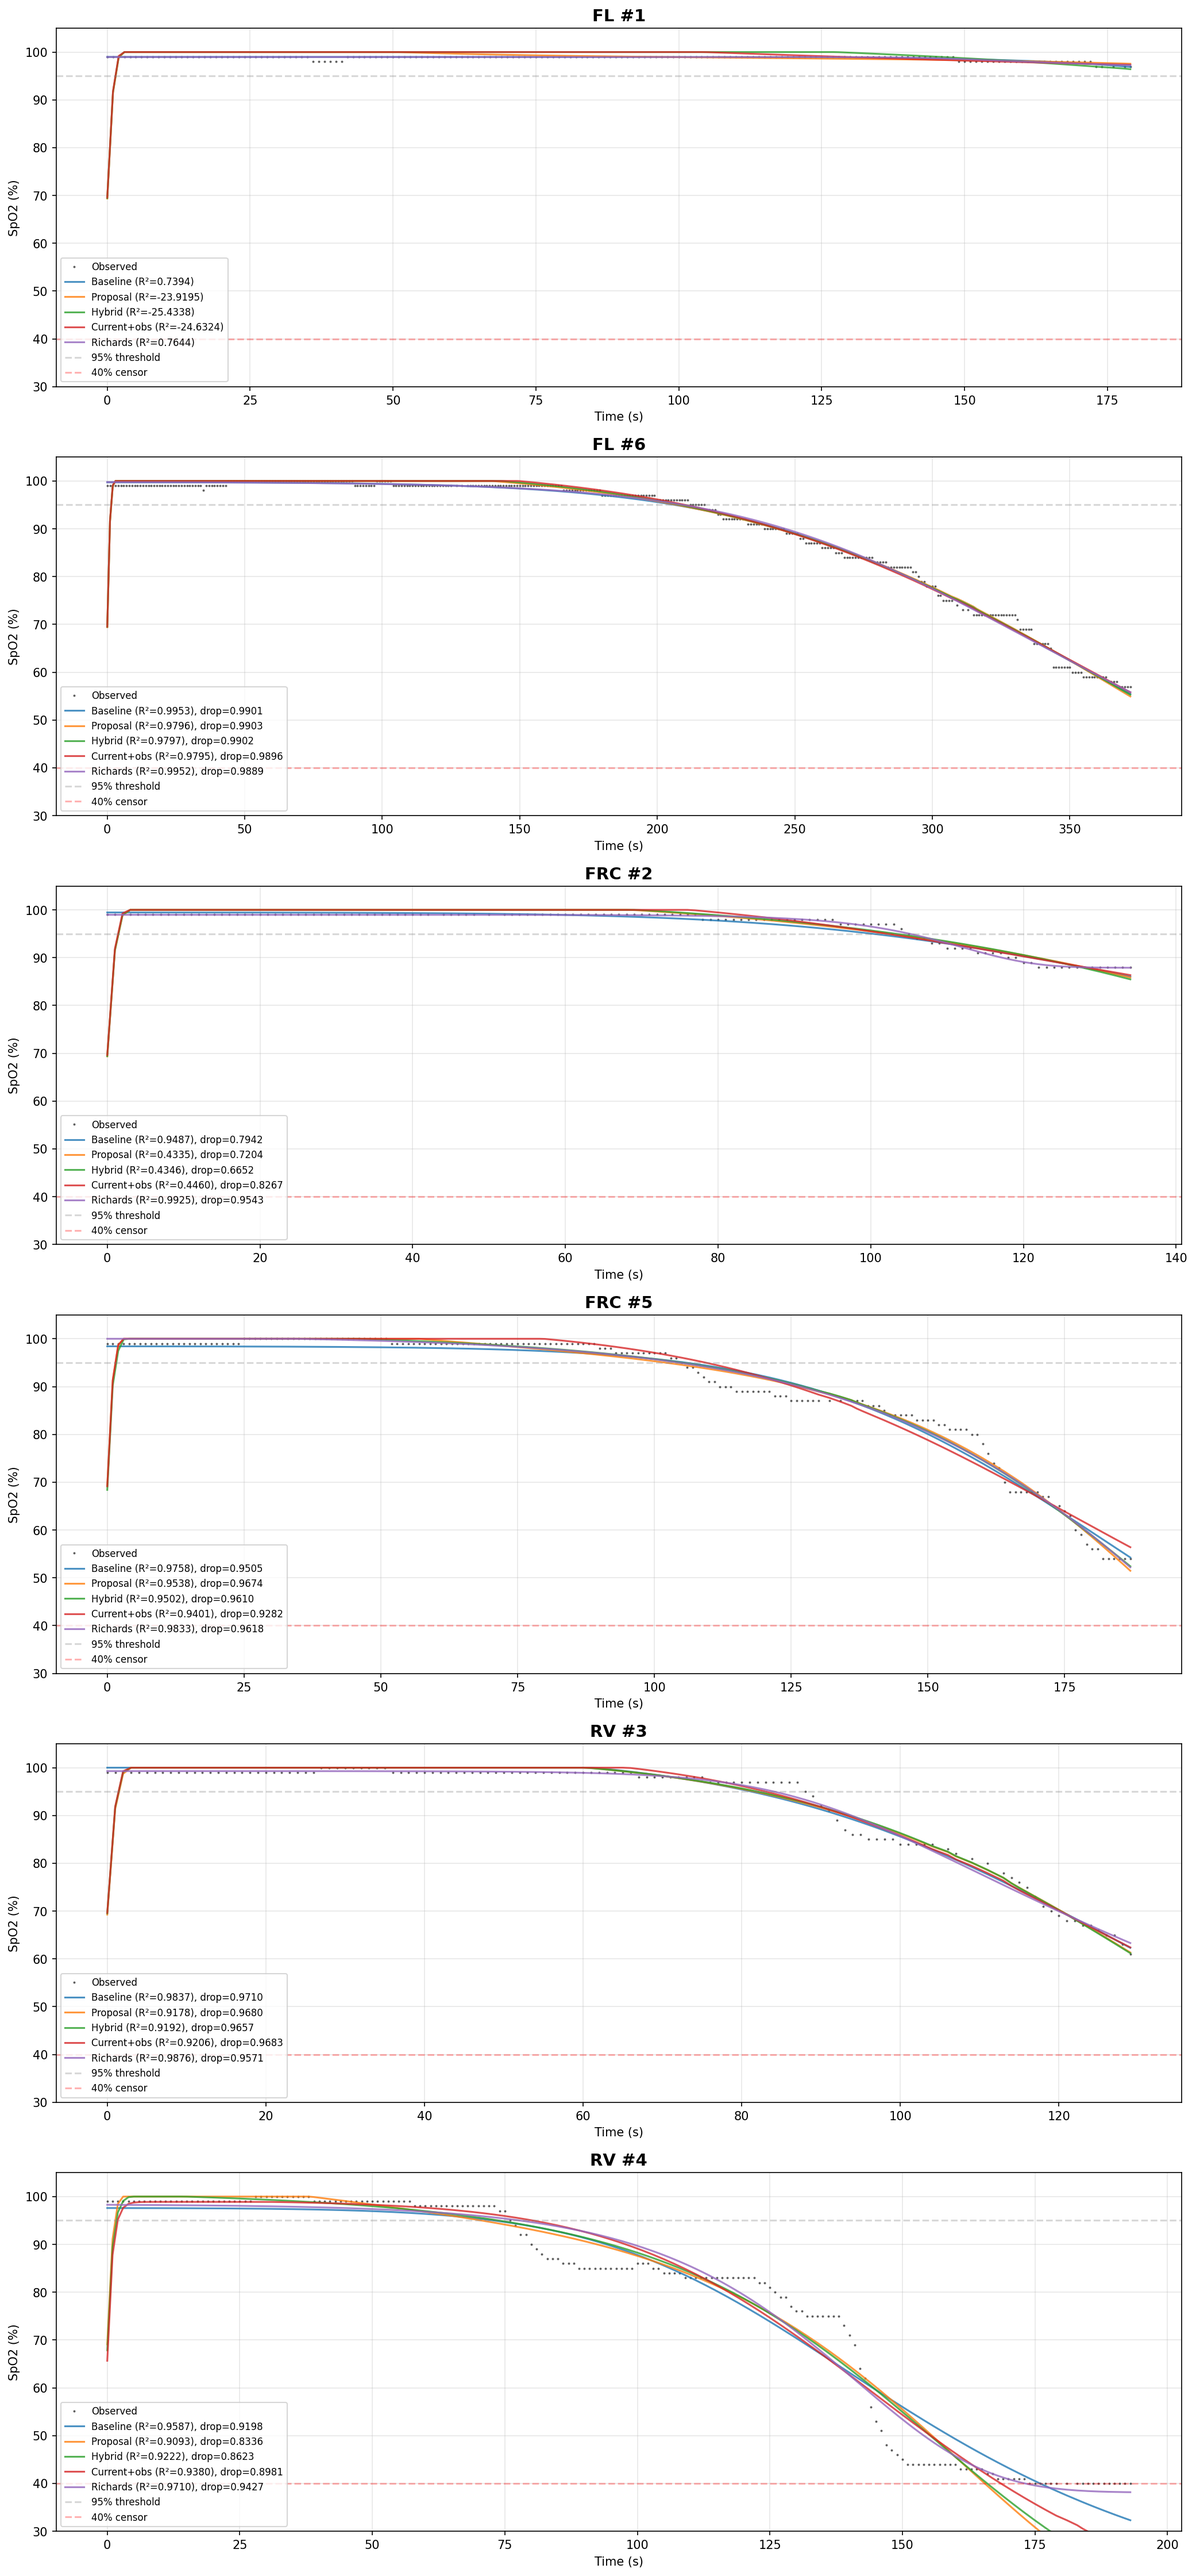
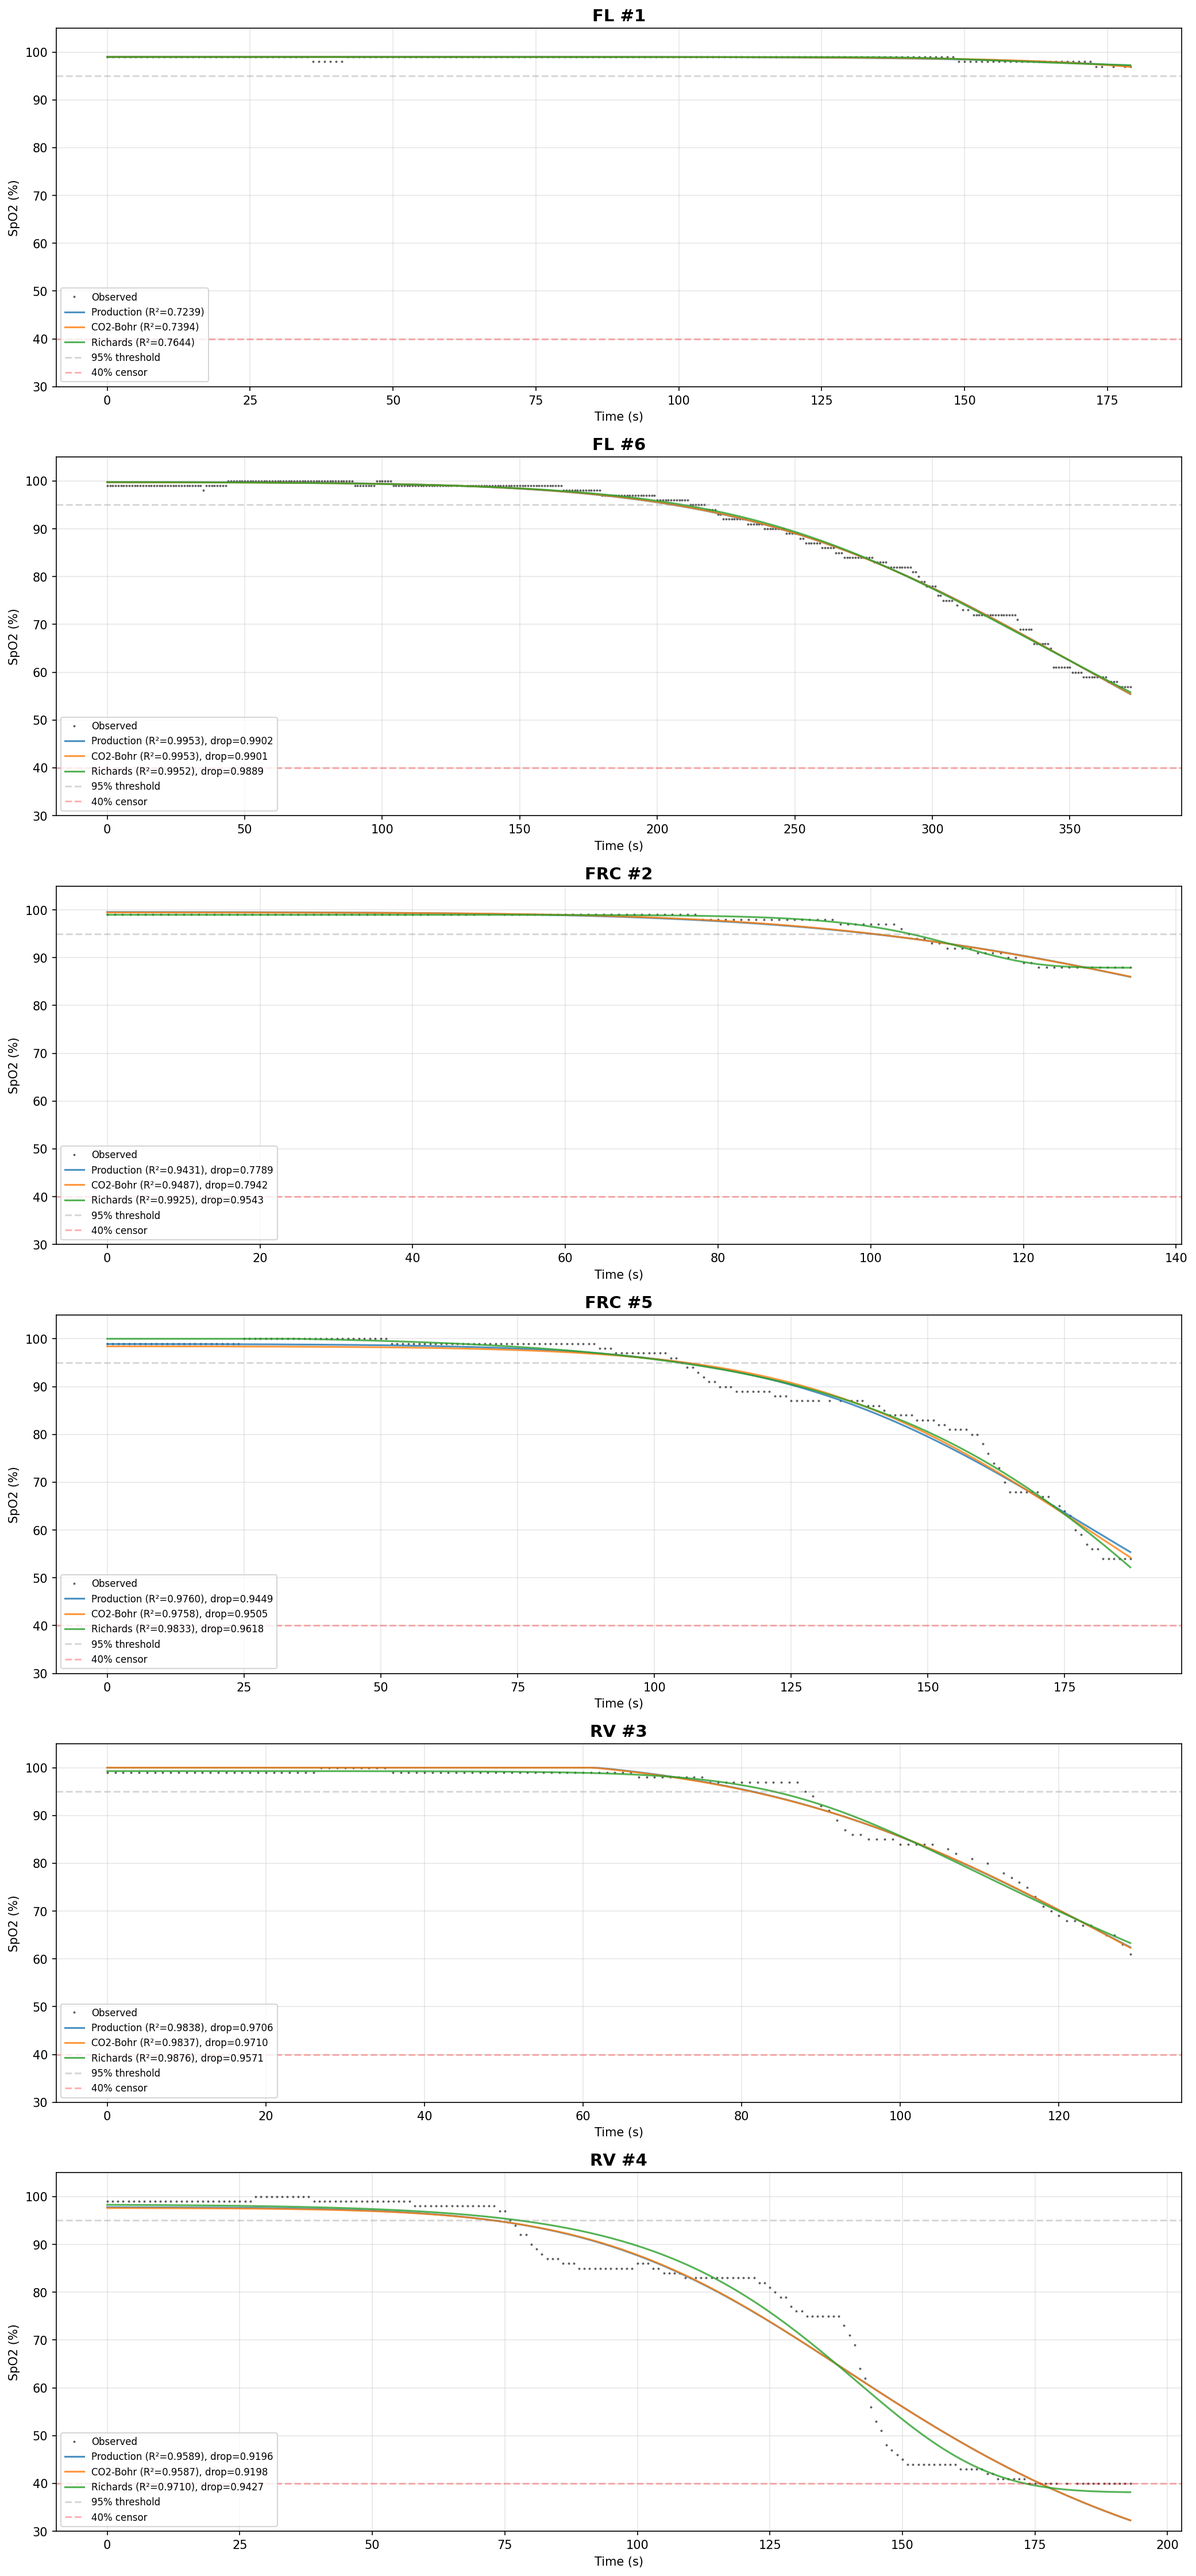
Trim to 3-way comparison: Production vs CO2-Bohr vs Richards
Production (saturating Bohr) and CO2-Bohr (linear CO2) are
essentially tied on R² (differences in 4th decimal). Both have
the same identifiability issues (gamma pinned at 2.0, 3-5/7
params at bounds). Richards (5p descriptive sigmoid) sets the
ceiling, beating both mechanistic models on 5/6 holds.

Dropped Proposal/Hybrid/Current+obs variants (all worse, obs
model unidentifiable). These three are the validation set going
forward.

diff --git a/backend/scripts/compare_new_model.py b/backend/scripts/compare_new_model.py
@@ -177,40 +177,25 @@ class ModelVariant:
     loss_fn: callable
 
 
+def predict_production(t, hr, params):
+    """Production model: Sev+gamma + saturating Bohr (7 params).
+
+    This is what's actually deployed in hill_model.py / fitter.py.
+    """
+    pao2_0, pvo2, tau_washout, gamma, bohr_max, tau_bohr, r_offset = params
+    pao2 = pao2_exponential(t, pao2_0, pvo2, tau_washout)
+    p50 = p50_saturating(t, P50_BASE, bohr_max, tau_bohr)
+    sa = odc_severinghaus(pao2, p50, gamma)
+    return obs_none(sa, t, r_offset)
+
+
 def predict_baseline(t, hr, params):
-    """Variant 1: Current Severinghaus+gamma model (7 params)."""
+    """Improved baseline: Sev+gamma + CO2-linear Bohr (7 params)."""
     pao2_0, pvo2, tau_washout, gamma, paco2_0, k_co2, r_offset = params
     pao2 = pao2_exponential(t, pao2_0, pvo2, tau_washout)
     p50 = p50_linear_co2(t, paco2_0, k_co2)
     sa = odc_severinghaus(pao2, p50, gamma)
     return obs_none(sa, t, r_offset)
-
-
-def predict_proposal(t, hr, params):
-    """Variant 2: Weibull + saturating P50 + Hill + delay/filter (9 params)."""
-    pa0, tau_w, p_w, p50_start, delta_p50, tau_co2, d, tau_f, r_offset = params
-    pao2 = pao2_weibull(t, pa0, tau_w, p_w)
-    p50 = p50_saturating(t, p50_start, delta_p50, tau_co2)
-    sa = odc_hill(pao2, p50, 2.7)  # n fixed at 2.7
-    return obs_delay_filter(sa, t, d, tau_f, r_offset)
-
-
-def predict_hybrid(t, hr, params):
-    """Variant 3: Weibull + linear CO2 Bohr + Sev+gamma + delay/filter (9 params)."""
-    pa0, tau_w, p_w, gamma, paco2_0, k_co2, d, tau_f, r_offset = params
-    pao2 = pao2_weibull(t, pa0, tau_w, p_w)
-    p50 = p50_linear_co2(t, paco2_0, k_co2)
-    sa = odc_severinghaus(pao2, p50, gamma)
-    return obs_delay_filter(sa, t, d, tau_f, r_offset)
-
-
-def predict_current_plus_obs(t, hr, params):
-    """Variant 4: Current model + delay/filter observation model (9 params)."""
-    pao2_0, pvo2, tau_washout, gamma, paco2_0, k_co2, d, tau_f, r_offset = params
-    pao2 = pao2_exponential(t, pao2_0, pvo2, tau_washout)
-    p50 = p50_linear_co2(t, paco2_0, k_co2)
-    sa = odc_severinghaus(pao2, p50, gamma)
-    return obs_delay_filter(sa, t, d, tau_f, r_offset)
 
 
 def predict_richards(t, hr, params):
@@ -259,88 +244,14 @@ BASELINE_BOUNDS = {
     ],
 }
 
-PROPOSAL_BOUNDS = {
-    "FL": [
-        (90, 120),    # pa0 (Weibull initial)
-        (150, 1200),  # tau_w (Weibull time constant)
-        (1.0, 4.5),   # p_w (Weibull shape)
-        (15, 30),     # p50_start
-        (0, 20),      # delta_p50
-        (30, 600),    # tau_co2
-        (5, 30),      # d (delay)
-        (0.5, 8),     # tau_f (filter)
-        (-3.0, 3.0),  # r_offset
-    ],
-    "FRC": [
-        (80, 110),
-        (80, 700),
-        (1.0, 4.0),
-        (15, 30),
-        (0, 20),
-        (30, 600),
-        (5, 30),
-        (0.5, 8),
-        (-3.0, 3.0),
-    ],
-    "RV": [
-        (70, 100),
-        (40, 500),
-        (1.0, 3.5),
-        (15, 30),
-        (0, 20),
-        (30, 600),
-        (5, 30),
-        (0.5, 8),
-        (-3.0, 3.0),
-    ],
-}
-
-HYBRID_BOUNDS = {
-    "FL": [
-        (90, 120),    # pa0
-        (150, 1200),  # tau_w
-        (1.0, 4.5),   # p_w
-        (0.8, 2.0),   # gamma
-        (25, 45),     # paco2_0
-        (0.02, 0.15), # k_co2
-        (5, 30),      # d
-        (0.5, 8),     # tau_f
-        (-3.0, 3.0),  # r_offset
-    ],
-    "FRC": [
-        (80, 110),
-        (80, 700),
-        (1.0, 4.0),
-        (0.8, 2.0),
-        (30, 45),
-        (0.02, 0.15),
-        (5, 30),
-        (0.5, 8),
-        (-3.0, 3.0),
-    ],
-    "RV": [
-        (70, 100),
-        (40, 500),
-        (1.0, 3.5),
-        (0.8, 2.0),
-        (35, 50),
-        (0.02, 0.15),
-        (5, 30),
-        (0.5, 8),
-        (-3.0, 3.0),
-    ],
-}
-
-CURRENT_OBS_BOUNDS = {
+PRODUCTION_BOUNDS = {
     "FL": [
         (100, 250),   # pao2_0
         (20, 50),     # pvo2
         (50, 250),    # tau_washout
         (0.8, 2.0),   # gamma
-        (25, 45),     # paco2_0
-        (0.02, 0.15), # k_co2
-        (5, 30),      # d
-        (0.5, 8),     # tau_f
+        (2.0, 15.0),  # bohr_max (mmHg P50 shift)
+        (40, 250),    # tau_bohr (s)
         (-3.0, 3.0),  # r_offset
     ],
     "FRC": [
@@ -348,10 +259,8 @@ CURRENT_OBS_BOUNDS = {
         (20, 50),
         (20, 100),
         (0.8, 2.0),
-        (30, 45),
-        (0.02, 0.15),
-        (5, 30),
-        (0.5, 8),
+        (2.0, 15.0),
+        (40, 250),
         (-3.0, 3.0),
     ],
     "RV": [
@@ -359,10 +268,8 @@ CURRENT_OBS_BOUNDS = {
         (20, 50),
         (10, 80),
         (0.8, 2.0),
-        (35, 50),
-        (0.02, 0.15),
-        (5, 30),
-        (0.5, 8),
+        (2.0, 15.0),
+        (40, 250),
         (-3.0, 3.0),
     ],
 }
@@ -393,32 +300,18 @@ RICHARDS_BOUNDS = {
 
 VARIANTS = [
     ModelVariant(
-        name="Baseline",
+        name="Production",
+        param_names=["pao2_0", "pvo2", "tau_washout", "gamma", "bohr_max", "tau_bohr", "r_offset"],
+        bounds_by_type=PRODUCTION_BOUNDS,
+        predict_fn=predict_production,
+        loss_fn=lambda obs, pred: loss_weighted_sse(obs, pred, alpha=3.0),
+    ),
+    ModelVariant(
+        name="CO2-Bohr",
         param_names=["pao2_0", "pvo2", "tau_washout", "gamma", "paco2_0", "k_co2", "r_offset"],
         bounds_by_type=BASELINE_BOUNDS,
         predict_fn=predict_baseline,
         loss_fn=lambda obs, pred: loss_weighted_sse(obs, pred, alpha=3.0),
-    ),
-    ModelVariant(
-        name="Proposal",
-        param_names=["pa0", "tau_w", "p_w", "p50_start", "delta_p50", "tau_co2", "d", "tau_f", "r_offset"],
-        bounds_by_type=PROPOSAL_BOUNDS,
-        predict_fn=predict_proposal,
-        loss_fn=lambda obs, pred: loss_censored_vec(obs, pred),
-    ),
-    ModelVariant(
-        name="Hybrid",
-        param_names=["pa0", "tau_w", "p_w", "gamma", "paco2_0", "k_co2", "d", "tau_f", "r_offset"],
-        bounds_by_type=HYBRID_BOUNDS,
-        predict_fn=predict_hybrid,
-        loss_fn=lambda obs, pred: loss_censored_vec(obs, pred),
-    ),
-    ModelVariant(
-        name="Current+obs",
-        param_names=["pao2_0", "pvo2", "tau_washout", "gamma", "paco2_0", "k_co2", "d", "tau_f", "r_offset"],
-        bounds_by_type=CURRENT_OBS_BOUNDS,
-        predict_fn=predict_current_plus_obs,
-        loss_fn=lambda obs, pred: loss_censored_vec(obs, pred),
     ),
     ModelVariant(
         name="Richards",
